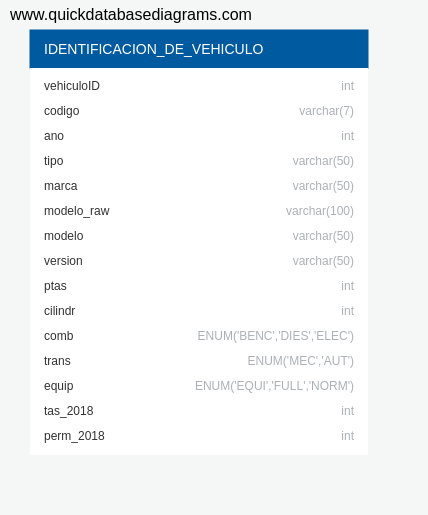
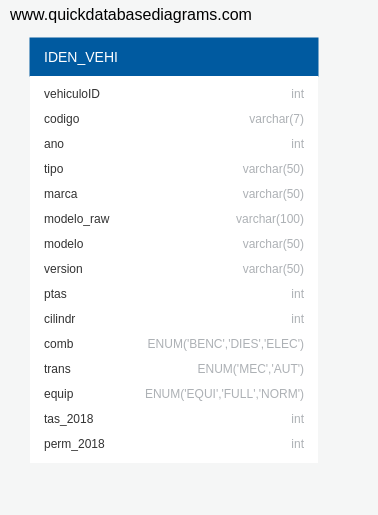
Se acorto el nombre de la tabla

Changed region(s): [[0.0291, 0.0, 0.873, 0.8699]]

diff --git a/Codigo.py b/Codigo.py
@@ -6,7 +6,7 @@ db = MySQLdb.connect(host="localhost",    # tu host, usualmente localhost
                      passwd="1709",       # tu password
                      db="SII_2018")       # el nombre de la base de datos
 cursor = db.cursor()
-mi_query = "SELECT * FROM IDENTIFICACION_DE_VEHICULO"
+mi_query = "SELECT * FROM IDEN_VEHI"
 cursor.execute(mi_query)
 cursor.fetchall()
 i = 0
@@ -31,7 +31,7 @@ with open('liv2018xls.csv') as File:
 		tas_2018 = int(particion[10])
 		perm_2018 = int(particion[11])
 		i = i +1
-		sql = "INSERT INTO IDENTIFICACION_DE_VEHICULO (vehiculoID,codigo,ano,tipo,marca,modelo_raw,modelo,version,ptas,cilindr,comb,trans,equip,tas_2018,perm_2018) VALUES (%d, %s, %d, %s, %s, %s, %s, %s, %d, %d,  %s, %s, %s, %d, %d)"
+		sql = "INSERT INTO IDEN_VEHI (vehiculoID,codigo,ano,tipo,marca,modelo_raw,modelo,version,ptas,cilindr,comb,trans,equip,tas_2018,perm_2018) VALUES (%d, %s, %d, %s, %s, %s, %s, %s, %d, %d,  %s, %s, %s, %d, %d)"
 		print(sql)
 		registro = (vehiculoID,codigo,ano,tipo,marca,modelo_raw,modelo,version,ptas,cilindr,comb,trans,equip,tas_2018,perm_2018)
 		print(registro)
